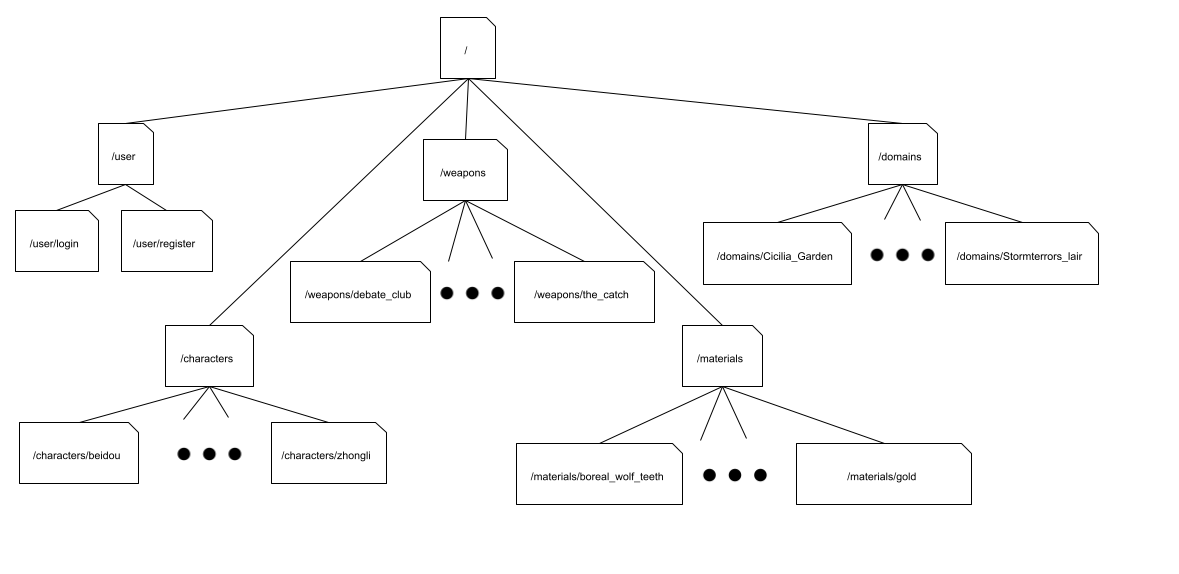
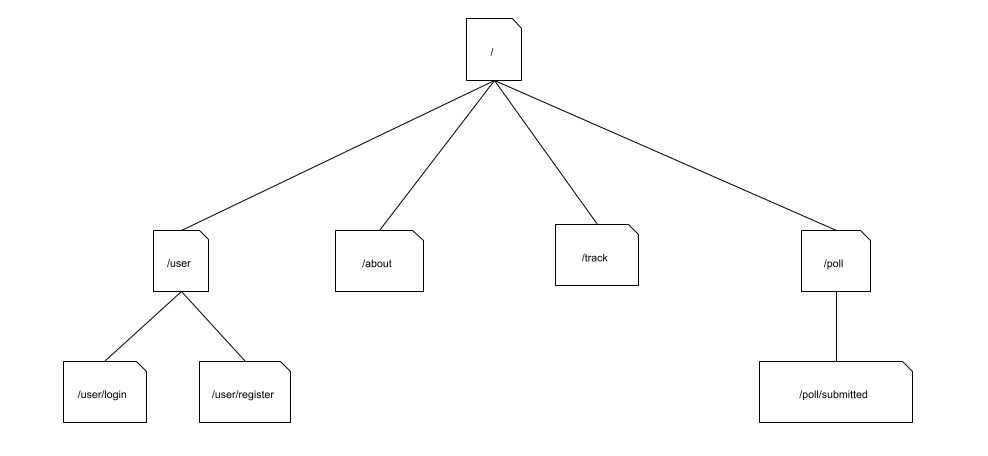
fully updated project

diff --git a/src/app.js b/src/app.js
@@ -46,14 +46,12 @@ app.use((req, res, next) => {
 const baseRouter  = require('./routes/index'),
       userRouter  = require('./routes/user'),
       pollRouter  = require('./routes/poll'),
-      trackRouter = require('./routes/track')
-      apiRouter   = require('./routes/api');
+      trackRouter = require('./routes/track');
 
 app.use('/', baseRouter);
 app.use('/', trackRouter);
 app.use('/user', userRouter);
 app.use('/poll', pollRouter); 
-app.use('/api', apiRouter);
 
 // start server
 app.listen(process.env.PORT || 3000, 

diff --git a/src/config/passport_setup.js b/src/config/passport_setup.js
@@ -4,16 +4,5 @@ const passport      = require('passport'),
       User          = mongoose.model('User');
 
 passport.use(new LocalStrategy(User.authenticate()));
-
-// passport.serializeUser((user, done) => {
-//     done(null, user.id);
-// });
-
-// passport.deserializeUser(async (id, done) => {
-//     User.findById(id, function(err, user) {
-//         done(err, user);
-//     });
-// });
-
 passport.serializeUser(User.serializeUser());
 passport.deserializeUser(User.deserializeUser());

diff --git a/src/models/user_model.js b/src/models/user_model.js
@@ -3,7 +3,7 @@ const mongoose              = require("mongoose"),
 
 const User = new mongoose.Schema({
   username     : {type: String, required: true},
-  
+  // password is stored as separate salt and hash by passport
   characters   : [{type: mongoose.Schema.Types.ObjectId, ref: 'Character'}],
   weapons      : [{type: mongoose.Schema.Types.ObjectId, ref: 'Weapon'}],
   pollAnswers  : [{type: mongoose.Schema.Types.ObjectId, ref: 'PollAnswer'}]

diff --git a/src/routes/user.js b/src/routes/user.js
@@ -5,6 +5,7 @@ const express  = require('express'),
       User     = mongoose.model('User');
 
 // login and register from initial template
+// https://github.com/nyu-csci-ua-0467-001-002-spring-2022/final-project-danilo-montes/tree/7230f041144c1ad6c4bbb0781ea62b11124e3168
 
 // REGISTER
 router.get('/register', (req, res) => {

diff --git a/README.md b/README.md
@@ -5,26 +5,28 @@
 
 In the game Genshin Impact, there are available areas in the game that are only available on certain days. Checking for which of these areas are available on what days can get tedious, as every character and weapon need different materials, and you may end up forgetting what each one needs. The goal of this site is to eliminate the need to memorize what days and what materials are needed for you to level up your characters and weapons.
 
-Genshin Impact Daily Info is a web app that will allow users to view what materials are available on a given day (the current day, by default). Registered users can also indicate which characters and weapons they want to focus on, so those will appear clearly on the page.
+Genshin Impact Daily Info is a web app that will allow users to view what materials are available on the day the user accesses the site. Users must register an account, and then can indicate which characters and weapons they want to focus on, so those will appear clearly on the page.
 
 ## Data Model
 
-The application will store Users, Characters, Weapons, Materials, and Domains
+The application will store Users, Characters, Weapons, Materials, Domains, Polls, and PollAnswers
 
-* each list will store information about a single character or weapon
-* users can have multiple characters and weapons (via references)
+* users can have multiple characters, weapons, and poll answers (via references)
 * characters and weapons contain materials (via references)
 * materials contain domains (via references)
+* polls contain poll answers (via references)
+* poll answers contain the poll to which they are answers to and the users that answered them (via references)
 
 An Example User:
 
 ```javascript
 {
   username: // username
-  password: // hashed password
-  lastVisited: // time when the user last visited the site
+  salt: // password salt
+  hash: // password hash
   characters: // an array of references to documents containing the character info
   weapons: // an array of references to documents containing the weapon info
+  pollAnswers: // an array of references to documents containing the user's poll answers
 }
 ```
 
@@ -35,8 +37,8 @@ An Example Character document:
   name: "Beidou",
   region: "Liyue",
   vision: "Electro",
-  talent-material: "Gold",
-  weekly-material: "Dvalin's Sigh"
+  talent_material: ObjectId('...'), // object ID of talent material
+  weekly_material: ObjectId('...')  // object ID of weekly material
 }
 ```
 
@@ -47,10 +49,7 @@ An Example Weapon document:
   name: "Sacrificial Greatsword",
   class: "Claymore",
   rarity: 4,
-  stats: {base_atk: "565", 
-          second_stat: "Energy Recharge", 
-          second_stat_number: "30.6%"},
-  ascension_material : "Boreal Wolf Teeth"
+  ascension_material : ObjectId('...') // object ID of ascension_material
 }
 ```
 
@@ -59,8 +58,8 @@ An Example Material document:
 ```javascript
 {
   name: "Boreal Wolf Teeth",
-  days_of_week: "Tu/Fr",
-  domain: "Cecilia Garden"
+  days_of_week: "Tuesday Friday",
+  domain: ObjectId('...') // object ID of domain
 }
 ```
 
@@ -70,62 +69,23 @@ An Example Domain document:
 {
   name: "Stormterror's Lair"
   region: "Mondstadt", 
-  weekly_boss: "Dvalin"
+  weekly_boss: "Dvalin",
+  type: "Trounce"
 }
 ```
 
 
-## [Link to Commented First Draft Schema](db.js) 
+## [Link to Commented First Draft Schema](src/models/user_model.js) 
 
 ## Wireframes
 
-/ - home page of site
-
-![home page](documentation/wireframes/home.png)
-
-/ - home page of site if user is logged in
-
-![home page with login](documentation/wireframes/home-with-login.png)
-
 /user/login - login page
 
-![login page](documentation/wireframes/login.png)
+![login page](documentation/wireframes/user_login.png)
 
 /user/register - registration page
 
-![registration page](documentation/wireframes/register.png)
-
-/characters - list of all characters
-
-![characters page](documentation/wireframes/characters.png)
-
-/characters/slug - information about a specific character
-
-![character page](documentation/wireframes/characters_slug.png)
-
-/weapons - list of all weapons
-
-![weapons page](documentation/wireframes/weapons.png)
-
-/weapons/slug - information about a specific weapon
-
-![weapon page](documentation/wireframes/weapons_slug.png)
-
-/materials - list of all materials
-
-![materials page](documentation/wireframes/materials.png)
-
-/materials/slug - information about a specific material
-
-![material page](documentation/wireframes/materials_slug.png)
-
-/domains - list of all domains
-
-![domains page](documentation/wireframes/domains.png)
-
-/domains/slug - information about a specific domain
-
-![domain page](documentation/wireframes/domains_slug.png)
+![registration page](documentation/wireframes/user_register.png)
 
 ## Site map
 
@@ -134,19 +94,19 @@ An Example Domain document:
 ## User Stories or Use Cases
 
 1. as a non-registered user, I can register a new account with the site
-2. as a non-registered user, I can view the available talent and weapon level up material for any given day
-3. as a non-registered user, I can look up general information about characters, weapons, materials, and domains
-4. as a user, I can log in to the site
-5. as a user, I can mark characters and weapons to track, so that they show up first on the home page
-6. as a user, I can view all of my tracked characters and weapons
-7. as a user, I can add and remove weapons and characters to be tracked
+2. as a non-registered user, I can view the about tab, which informs me on how the website works
+3. as a registered user, I can log in to the site
+4. as a registered user, I can mark characters and weapons to track, so that they show up first on the home page
+5. as a registered user, I can view all of my tracked characters and weapons
+6. as a registered user, I can add and remove weapons and characters to be tracked
+7. as a registered user, I can submit an answer to the weekly poll
 
 ## Research Topics
 
 * (5 points) Integrate user authentication
     * I'm going to be using `passport.js` for user authentication
-    * `passport` seems to be a relatively simple to use library, and should allow me to implement user authentication without too much trouble
-* (2 point) Countdown timers
+    * It allows me to easily implement user login and logout, which is essential for the site
+* (2 points) Countdown timers
     * I will use date-fns to get time values to create the countdown timers shown on the home page
     * It will automatically handle time zone differences
 * (2 points) Flexbox
@@ -155,13 +115,14 @@ An Example Domain document:
 * (3 points) MongoDB + Heroku Deployment
     * I am using these to make my web app available outside of the class
 
-11 points total out of 8 required points
+12 points total out of 8 required points
 
 
-## [Link to Initial Main Project File](app.js) 
+## [Link to Initial Main Project File](src/app.js) 
 
 ## Annotations / References Used
 
-1. [passport.js sign in tutorial](https://medium.com/swlh/set-up-an-express-js-app-with-passport-js-and-mongodb-for-password-authentication-6ea05d95335c)
-2. [flexbox](https://css-tricks.com/snippets/css/a-guide-to-flexbox/) - [used in css file](/public/stylesheets/style.css)
-3. [date-fns](https://date-fns.org/)
+1. [passport.js](https://github.com/nyu-csci-ua-0467-001-002-spring-2022/final-project-danilo-montes/tree/7230f041144c1ad6c4bbb0781ea62b11124e3168) - I based my login on the one used in the initial commit of the repository (sample list site)
+2. [date-fns](https://date-fns.org/)
+3. [flexbox](https://css-tricks.com/snippets/css/a-guide-to-flexbox/) - [used in css file](/public/stylesheets/style.css)
+4. [MongoBD + Heroku Deployment](https://www.mongodb.com/developer/how-to/use-atlas-on-heroku/)
